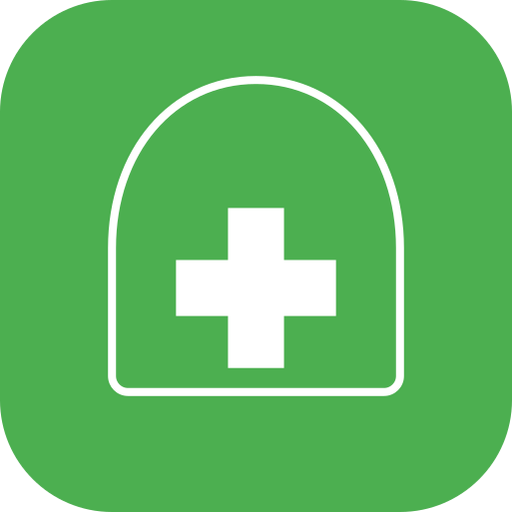
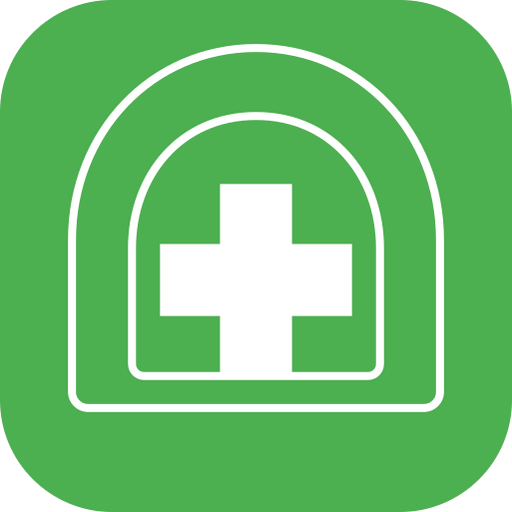
로고 아이콘에 이중 아치 레이어 추가해 입체감 보강
단일 아치 선이 너무 단순해 보인다는 피드백 반영. 아치를
두 겹(바깥/안쪽)으로 겹치고 십자가를 키워 기존 웹페이지
로고의 깊이감에 가깝게 재조정.

Changed region(s): [[0.125, 0.0625, 0.875, 0.8125], [0.3125, 0.3438, 0.6875, 0.625], [0.3438, 0.2188, 0.6562, 0.2812]]

diff --git a/app/components/Header.tsx b/app/components/Header.tsx
@@ -25,14 +25,21 @@ export default function Header() {
       <div style={s.logo}>
         <svg viewBox="0 0 64 64" width={40} height={40}>
           <path
-            d="M32 6C20 6 12 16 12 30v20a2 2 0 0 0 2 2h36a2 2 0 0 0 2-2V30C52 16 44 6 32 6Z"
+            d="M32 6C19 6 9 16.5 9 30v19a2 2 0 0 0 2 2h42a2 2 0 0 0 2-2V30C55 16.5 45 6 32 6Z"
             fill="none"
             stroke="white"
-            strokeWidth="4.5"
+            strokeWidth="4"
             strokeLinejoin="round"
           />
-          <rect x="28.5" y="24" width="7" height="22" fill="white" />
-          <rect x="21" y="31.5" width="22" height="7" fill="white" />
+          <path
+            d="M32 14.5C22.5 14.5 16.5 22 16.5 31v14.5A1.5 1.5 0 0 0 18 47h28a1.5 1.5 0 0 0 1.5-1.5V31C47.5 22 41.5 14.5 32 14.5Z"
+            fill="none"
+            stroke="white"
+            strokeWidth="3"
+            strokeLinejoin="round"
+          />
+          <rect x="27.5" y="23" width="9" height="24" fill="white" />
+          <rect x="20" y="30.5" width="24" height="9" fill="white" />
         </svg>
       </div>
       <div style={{ fontSize: 13, fontWeight: 700, color: colors.primary, marginBottom: 2 }}>